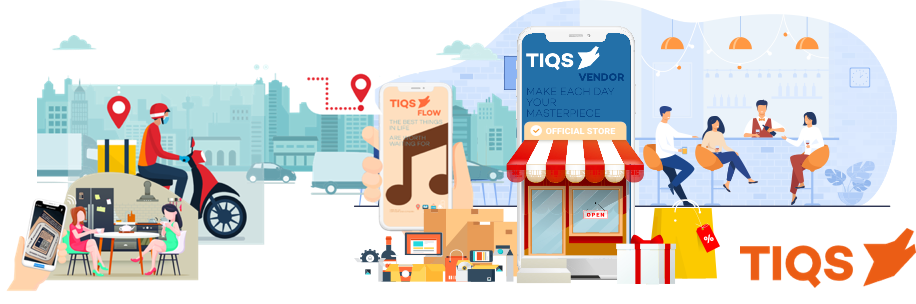
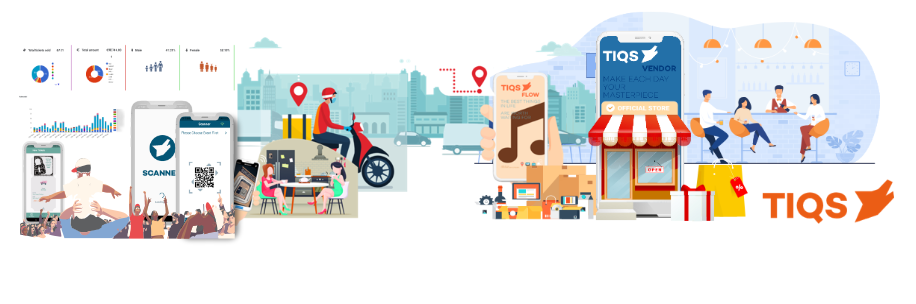
Changed translatoion and wording and API

diff --git a/application/controllers/Api/Eventsnew.php b/application/controllers/Api/Eventsnew.php
@@ -80,29 +80,43 @@ class Eventsnew extends REST_Controller
 		$changetimein = $this->security->xss_clean($this->input->post('changeTimeIn'));
 		$changetimeout = $this->security->xss_clean($this->input->post('changeTimeOut'));
 
-		//		echo var_dump($vendorId);
-		//		echo var_dump($eventid);
-		//		echo var_dump($changetimein);
-		//		echo var_dump($changetimeout);
-		//		die();
-
 		$this->db->where('customer', $vendorId);
 		$this->db->where('eventid', $eventid);
 		$this->db->where('scannedtime >=', date_create($changetimein)->format('Y-m-d H:i:s'));
 		$this->db->where('scannedtime <=', date_create($changetimeout)->format('Y-m-d H:i:s'));
-
+		$this->db->where_in('paid', [1,3]);
 		$this->db->from('tbl_bookandpay');
 		$query = $this->db->get();
 		$result = $query->result_array();
 		$this->response($result, 200);
 	}
 
+	public function Ticketsguest_post()
+	{
+		$vendorId = $this->security->xss_clean($this->input->post('vendorId'));
+		$eventid = $this->security->xss_clean($this->input->post('eventId'));
+		$changetimein = $this->security->xss_clean($this->input->post('changeTimeIn'));
+		$changetimeout = $this->security->xss_clean($this->input->post('changeTimeOut'));
+
+		$this->db->where('customer', $vendorId);
+		$this->db->where('eventid', $eventid);
+		$this->db->where('scannedtime >=', date_create($changetimein)->format('Y-m-d H:i:s'));
+		$this->db->where('scannedtime <=', date_create($changetimeout)->format('Y-m-d H:i:s'));
+		$this->db->where_in('tbl_bookandpay.paid', [1,3]);
+		$this->db->from('tbl_bookandpay');
+		$query = $this->db->get();
+		$result = $query->result_array();
+		$this->response($result, 200);
+	}
+
+
+
 	public function Ticketsbuyer_post()
 	{
-		$email = $this->security->xss_clean($this->input->post('email'));
-		$file = FCPATH . 'application/tiqs_logs/mobileemail.txt';
-		$errorMessage = 'email for tickets: ' . $email;
-		Utility_helper::logMessage($file, $errorMessage);
+//		$email = $this->security->xss_clean($this->input->post('email'));
+//		$file = FCPATH . 'application/tiqs_logs/mobileemail.txt';
+//		$errorMessage = 'email for tickets: ' . $email;
+//		Utility_helper::logMessage($file, $errorMessage);
 //		$result = [];
 //		$this->response($result, 200);
 //		Return;
@@ -118,6 +132,27 @@ class Eventsnew extends REST_Controller
 		$result = $query->result_array();
 		$this->response($result, 200);
 	}
+
+	public function Ticketguest_post()
+	{
+//		$email = $this->security->xss_clean($this->input->post('email'));
+//		$file = FCPATH . 'application/tiqs_logs/mobileemail.txt';
+//		$errorMessage = 'email for tickets: ' . $email;
+//		Utility_helper::logMessage($file, $errorMessage);
+
+		$email = $this->security->xss_clean($this->input->post('email'));
+		$this->db->select('tbl_events.eventname, tbl_events.eventImage, tbl_bookandpay.*');
+		$this->db->from('tbl_bookandpay');
+		$this->db->join('tbl_event_tickets', 'tbl_event_tickets.id = tbl_bookandpay.eventid', 'inner');
+		$this->db->join('tbl_events', 'tbl_events.id = tbl_event_tickets.eventId', 'ínner');
+		$this->db->where('tbl_bookandpay.email', $email);
+		$this->db->where_in('tbl_bookandpay.paid', [1,3]);
+		$query = $this->db->get();
+		$result = $query->result_array();
+		$this->response($result, 200);
+	}
+
+
 
 	public function SingleTickets_post()
 	{
@@ -145,20 +180,86 @@ class Eventsnew extends REST_Controller
 	public function Ticketsevent_post()
 	{
 		$eventsId = $this->security->xss_clean($this->input->post('eventId'));
-		$file = FCPATH . 'application/tiqs_logs/mobileemail.txt';
-		$errorMessage = 'email for tickets: ' . $eventsId;
-		Utility_helper::logMessage($file, $errorMessage);
+//		$file = FCPATH . 'application/tiqs_logs/mobileemail.txt';
+//		$errorMessage = 'email for tickets: ' . $eventsId;
+//		Utility_helper::logMessage($file, $errorMessage);
 //		$result = [];
 //		$this->response($result, 200);
 //		Return;
-
-		$email = $this->security->xss_clean($this->input->post('email'));
+//		$email = $this->security->xss_clean($this->input->post('email'));
 		$this->db->select('tbl_events.eventname, tbl_events.eventImage, tbl_bookandpay.*');
 		$this->db->from('tbl_bookandpay');
 		$this->db->join('tbl_event_tickets', 'tbl_event_tickets.id = tbl_bookandpay.eventid', 'inner');
 		$this->db->join('tbl_events', 'tbl_events.id = tbl_event_tickets.eventId', 'ínner');
 		$this->db->where('tbl_events.id', $eventsId);
-//		$this->db->where_in('tbl_bookandpay.paid', [1,3]);
+		$this->db->where_in('tbl_bookandpay.paid', [1,3]);
+		$query = $this->db->get();
+		$result = $query->result_array();
+		$this->response($result, 200);
+	}
+
+	public function Ticketseventtobescanned_post()
+	{
+		$eventsId = $this->security->xss_clean($this->input->post('eventId'));
+//		$file = FCPATH . 'application/tiqs_logs/mobileemail.txt';
+//		$errorMessage = 'email for tickets: ' . $eventsId;
+//		Utility_helper::logMessage($file, $errorMessage);
+//		$result = [];
+//		$this->response($result, 200);
+//		Return;
+//		$email = $this->security->xss_clean($this->input->post('email'));
+//		$this->db->select_sum('tbl_bookandpay.numberofpersons');
+		$this->db->select( 'SUM(tbl_bookandpay.numberofpersons) as scanstobemade' , 'tbl_events.eventname, tbl_events.eventImage, tbl_bookandpay.*');
+		$this->db->from('tbl_bookandpay');
+		$this->db->join('tbl_event_tickets', 'tbl_event_tickets.id = tbl_bookandpay.eventid', 'inner');
+		$this->db->join('tbl_events', 'tbl_events.id = tbl_event_tickets.eventId', 'ínner');
+		$this->db->where('tbl_events.id', $eventsId);
+//		$this->db->where('tbl_bookandpay.scanned !=', "0");
+		$this->db->where_in('tbl_bookandpay.paid', [1,3]);
+		$query = $this->db->get();
+		$result = $query->result_array();
+		$this->response($result, 200);
+	}
+
+	public function Ticketseventscanned_post()
+	{
+		$eventsId = $this->security->xss_clean($this->input->post('eventId'));
+//		$file = FCPATH . 'application/tiqs_logs/mobileemail.txt';
+//		$errorMessage = 'email for tickets: ' . $eventsId;
+//		Utility_helper::logMessage($file, $errorMessage);
+//		$result = [];
+//		$this->response($result, 200);
+//		Return;
+//		$email = $this->security->xss_clean($this->input->post('email'));
+		$this->db->select( 'SUM(tbl_bookandpay.numberin) as scansmade' , 'tbl_events.eventname, tbl_events.eventImage, tbl_bookandpay.*');
+		$this->db->from('tbl_bookandpay');
+		$this->db->join('tbl_event_tickets', 'tbl_event_tickets.id = tbl_bookandpay.eventid', 'inner');
+		$this->db->join('tbl_events', 'tbl_events.id = tbl_event_tickets.eventId', 'ínner');
+		$this->db->where('tbl_events.id', $eventsId);
+//		$this->db->where('tbl_bookandpay.scanned !=', "0");
+		$this->db->where_in('tbl_bookandpay.paid', [1,3]);
+		$query = $this->db->get();
+		$result = $query->result_array();
+		$this->response($result, 200);
+	}
+
+	public function Ticketseventnotscanned_post()
+	{
+		$eventsId = $this->security->xss_clean($this->input->post('eventId'));
+//		$file = FCPATH . 'application/tiqs_logs/mobileemail.txt';
+//		$errorMessage = 'email for tickets: ' . $eventsId;
+//		Utility_helper::logMessage($file, $errorMessage);
+//		$result = [];
+//		$this->response($result, 200);
+//		Return;
+//		$email = $this->security->xss_clean($this->input->post('email'));
+		$this->db->select( 'SUM(tbl_bookandpay.numberofpersons - tbl_bookandpay.numberin) as scanstobemade' , 'tbl_events.eventname, tbl_events.eventImage, tbl_bookandpay.*');
+		$this->db->from('tbl_bookandpay');
+		$this->db->join('tbl_event_tickets', 'tbl_event_tickets.id = tbl_bookandpay.eventid', 'inner');
+		$this->db->join('tbl_events', 'tbl_events.id = tbl_event_tickets.eventId', 'ínner');
+		$this->db->where('tbl_events.id', $eventsId);
+//		$this->db->where('tbl_bookandpay.scanned', "0");
+		$this->db->where_in('tbl_bookandpay.paid', [1,3]);
 		$query = $this->db->get();
 		$result = $query->result_array();
 		$this->response($result, 200);

diff --git a/application/views/includes/vendorSidebar.php b/application/views/includes/vendorSidebar.php
@@ -213,8 +213,8 @@
 			<li data-menuid="6.1"><a href="<?php echo $this->baseUrl;?>events/create"><i class="ti-agenda"></i> <span><?php echo $this->language->tLine('Create your event'); ?></span></a></li>
             <li data-menuid="6.2"><a href="<?php echo $this->baseUrl;?>events"><i class="ti-ticket"></i> <span><?php echo $this->language->tLine('Your Events'); ?></span></a></li>
 			<li data-menuid="5.3"><a href="<?php echo $this->baseUrl;?>events/tags_stats"><i class="ti-stats-up"></i> <span><?php echo $this->language->tLine('Statistics'); ?></span></a></li>
-			<li data-menuid="6.3"><a href="<?php echo $this->baseUrl;?>events/marketing"><i class="ti-email"></i> <span><?php echo $this->language->tLine('Email marketing'); ?></span></a></li>
-            <li data-menuid="6.3"><a href="<?php echo $this->baseUrl;?>events/emaildesigner"><i class="ti-email"></i> <span><?php echo $this->language->tLine('Email Designer'); ?></span></a></li>
+<!--			<li data-menuid="6.3"><a href="--><?php //echo $this->baseUrl;?><!--events/marketing"><i class="ti-email"></i> <span>--><?php //echo $this->language->tLine('Email marketing'); ?><!--</span></a></li>-->
+<!--            <li data-menuid="6.3"><a href="--><?php //echo $this->baseUrl;?><!--events/emaildesigner"><i class="ti-email"></i> <span>--><?php //echo $this->language->tLine('Email Designer'); ?><!--</span></a></li>-->
             <li data-menuid="6.4"><a href="<?php echo $this->baseUrl;?>events/tags"><i class="ti-email"></i> <span>tags and pixels</span></a></li>
 			<li data-menuid="6.5"><a href="<?php echo $this->baseUrl;?>events/scannedin"><i class="ti-email"></i> <span>scanner results</span></a></li>
             <li data-menuid="6.6"><a href="<?php echo $this->baseUrl;?>events/viewdesign"><i class="ti-ticket"></i> <span><?php echo $this->language->tLine('Shop settings'); ?></span></a></li>

diff --git a/application/views/events/shop.php b/application/views/events/shop.php
@@ -195,8 +195,8 @@
                                     &nbsp
                                 </div>
 
-                                <b
-                                    class="menu-list__price--discount excluding_fee excluding_fee_text text-danger"><?php echo ($ticket['soldOutWhenExpired'] == '') ? $this->language->tLine('SOLD OUT') : $this->language->tLine($ticket['soldOutWhenExpired']); ?></b>
+									<!--<b class="menu-list__price--discount excluding_fee excluding_fee_text text-danger">--><?php //echo ($ticket['soldOutWhenExpired'] == '') ? $this->language->tLine('SOLD OUT') : $this->language->tLine($ticket['soldOutWhenExpired']); ?><!--</b>-->
+									<b class="menu-list__price--discount excluding_fee excluding_fee_text text-danger"><?php echo ($ticket['soldOutWhenExpired'] == '') ? $this->language->tLine('SOLD OUT') : $ticket['soldOutWhenExpired']; ?></b>
                                 <?php else: ?>
                                 <div class="menu-list__price">
                                     <b

diff --git a/application/views/nolabels.php b/application/views/nolabels.php
@@ -1,10 +1,10 @@
 <div style="margin-top: 10%" class="col-sm-12">
 	<div style="margin-left: 8%">
 		<h1 class="heading" id="backOfficeMainH1">
-				OPTIMISING
+				REALISE
 		</h1>
 		<h3 class="heading" style="color:#717171">
-				VALUE FOR YOUR CUSTOMERS, IS BETTER BUSINESS
+				MAKE EACH DAY YOUR MASTERPIECE
 		</h3>
 		<h4 class="heading" style="font-size: 75%; color:#717171">
 			RESERVATION, TICKETING, DIGITAL MENU, DELIVERY, PICKUP, LOST & FOUND, FLIRT, BUY ME A DRINK, MARKETING & TARGETING

diff --git a/application/views/events/step-two.php b/application/views/events/step-two.php
@@ -124,7 +124,7 @@
                     </div>
 
                     <div class="row mb-2">
-                        <div class="col-md-3 text-dark">Number of tickets</div>
+                        <div class="col-md-3 text-dark">Number of persons</div>
                         <div class="col-md-3">
                             <input type="number" id="nopti" name="nopti" class="form-control inp-height"
                                 min="1" value="10">
